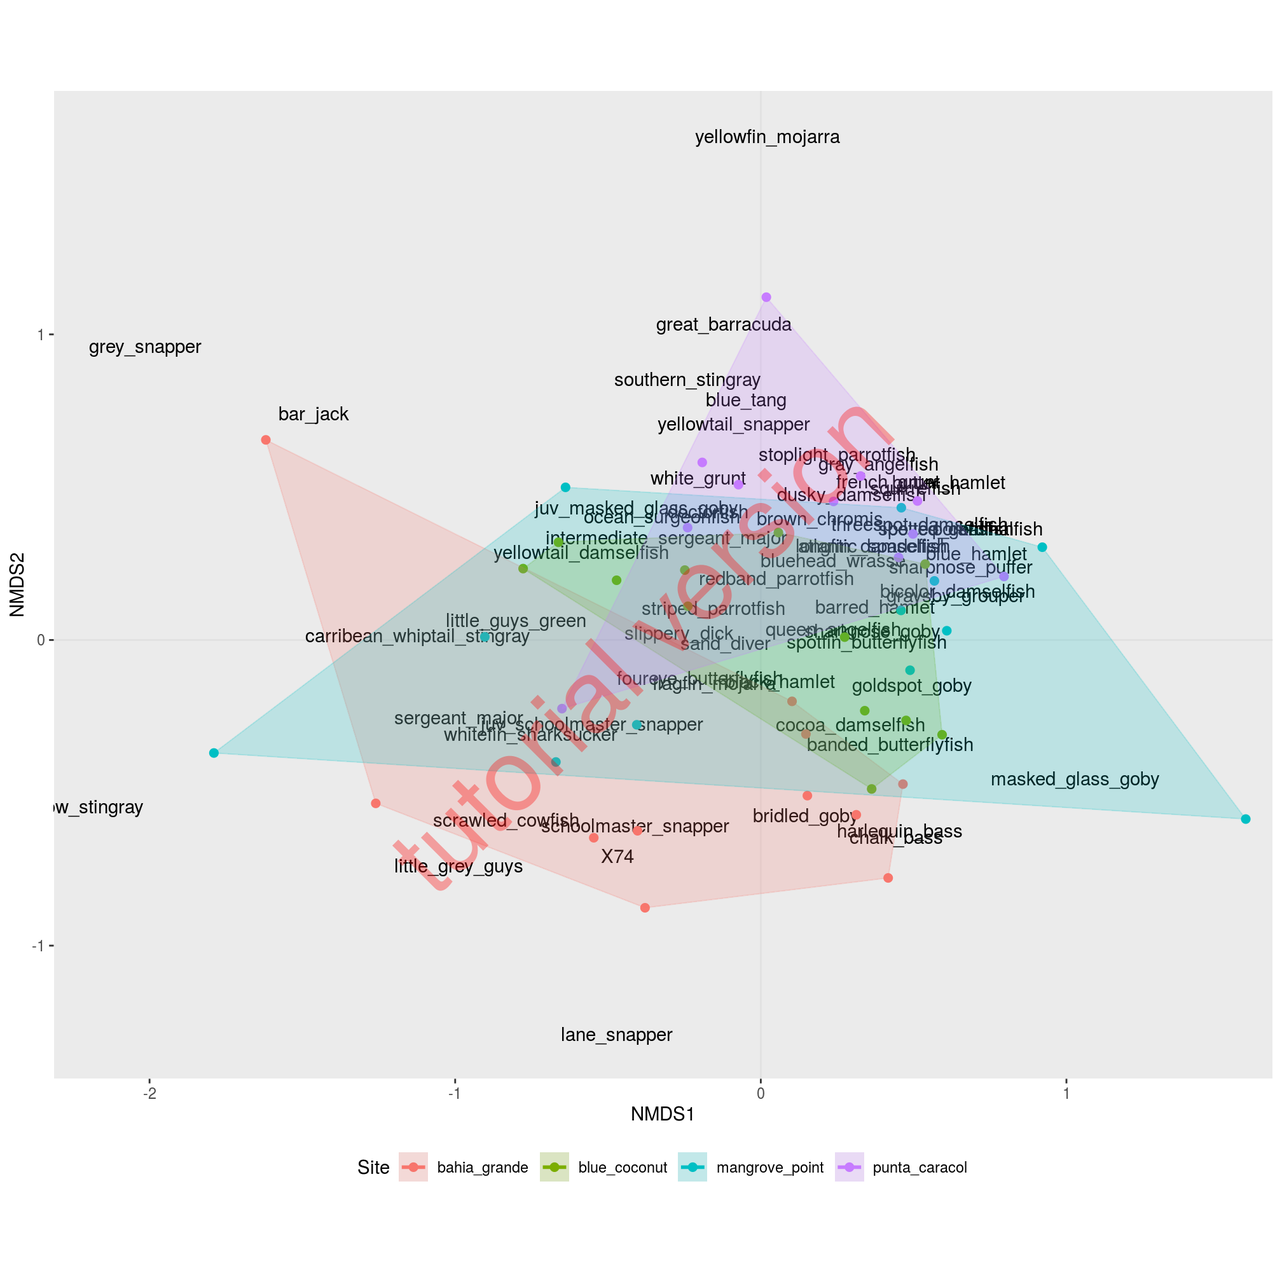
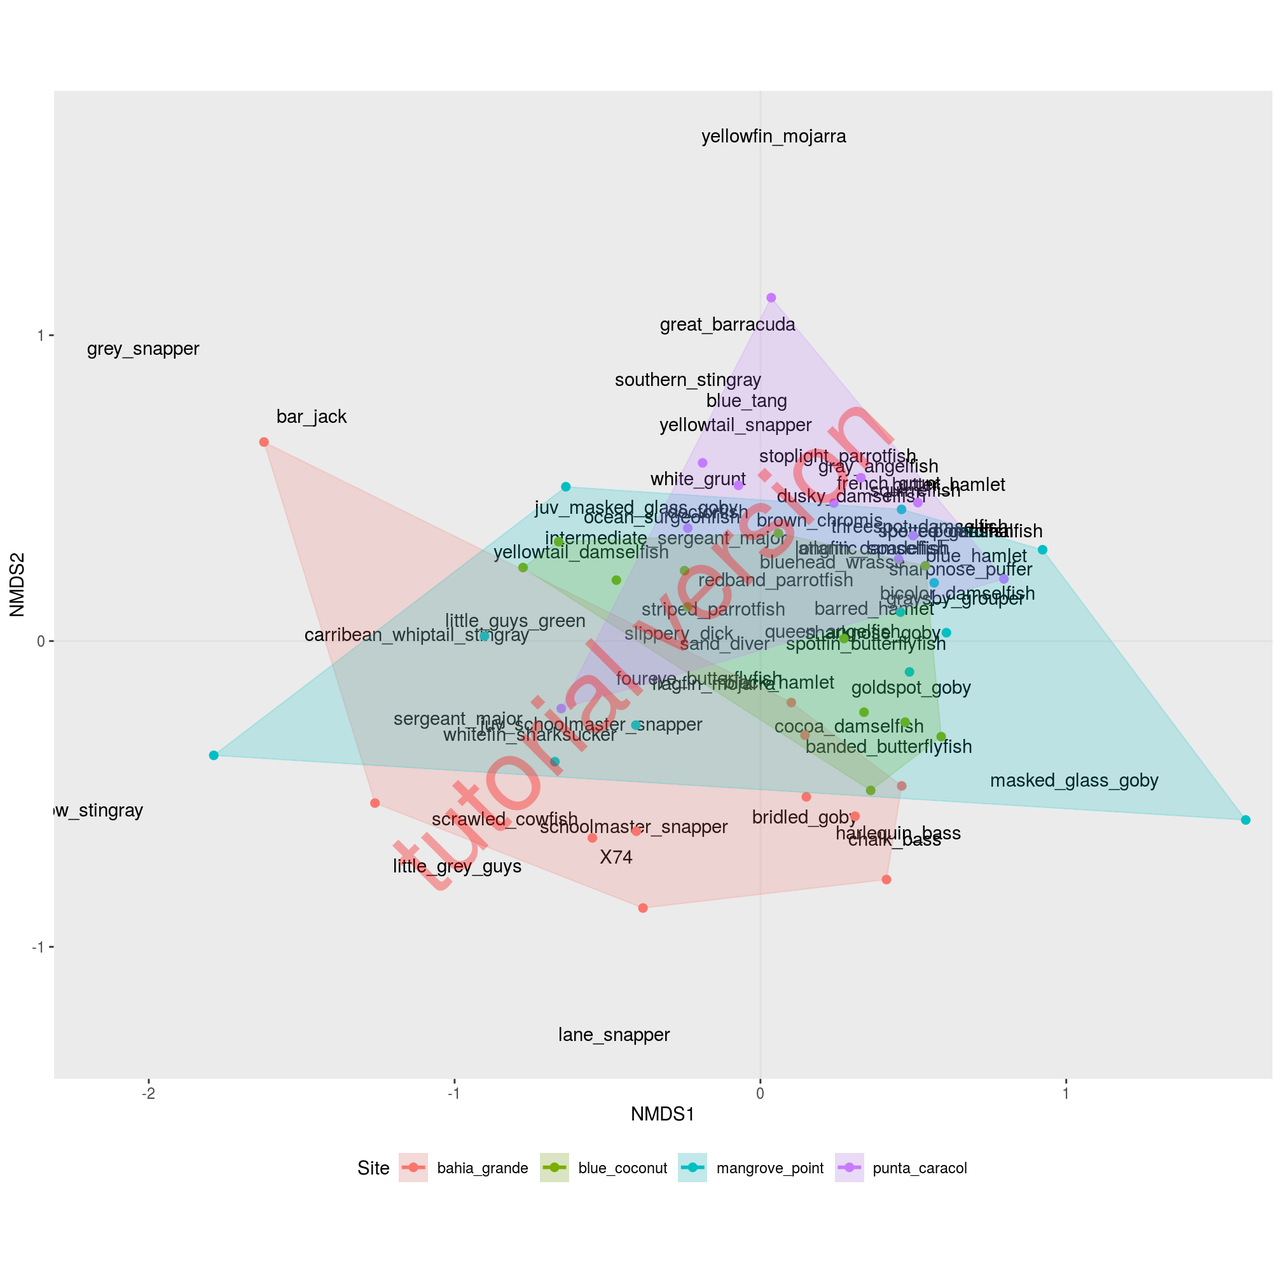
finish pie docs

diff --git a/docs/pie-charts-on-map.html b/docs/pie-charts-on-map.html
@@ -24,7 +24,7 @@
 <meta name="author" content="Kosmas Hench" />
 
 
-<meta name="date" content="2020-01-29" />
+<meta name="date" content="2020-01-30" />
 
   <meta name="viewport" content="width=device-width, initial-scale=1" />
   <meta name="apple-mobile-web-app-capable" content="yes" />
@@ -175,7 +175,7 @@ code span.wa { color: #60a0b0; font-weight: bold; font-style: italic; } /* Warni
 <h1><span class="header-section-number">3</span> pie-charts on map</h1>
 <div id="external-pacakges-1" class="section level2">
 <h2><span class="header-section-number">3.1</span> External pacakges</h2>
-<p>Note that we need to drop the following entries unless you know their family:</p>
+<p>Note that we need to drop the following entries unless you know their family (this happens automatically within this script):</p>
 <ul>
 <li>little_grey_guys</li>
 <li>little_guys_green</li>
@@ -375,12 +375,13 @@ Beware of the <code>col_types = str_c(c('ccdc',rep('d', 78)),collapse = '')</cod
 <div class="sourceCode" id="cb47"><pre class="sourceCode r"><code class="sourceCode r"><a class="sourceLine" id="cb47-1" data-line-number="1"><span class="co"># set color coding for habitat type</span></a>
 <a class="sourceLine" id="cb47-2" data-line-number="2">clr_habitat &lt;-<span class="st"> </span><span class="kw">c</span>(<span class="kw">rgb</span>(<span class="dv">0</span>,<span class="dv">0</span>,<span class="dv">0</span>), <span class="kw">rgb</span>(<span class="dv">1</span>,<span class="dv">1</span>,<span class="dv">1</span>)) <span class="op">%&gt;%</span><span class="st"> </span></a>
 <a class="sourceLine" id="cb47-3" data-line-number="3"><span class="st">  </span><span class="kw">set_names</span>(<span class="dt">nm =</span> <span class="kw">c</span>(<span class="st">&#39;Reef&#39;</span>, <span class="st">&#39;Mangrove&#39;</span>))</a></code></pre></div>
-<p>To put the compass on the map we read the svg file into R.</p>
+<p>To put the compass on the map, we read the svg file into R.</p>
 <div class="sourceCode" id="cb48"><pre class="sourceCode r"><code class="sourceCode r"><a class="sourceLine" id="cb48-1" data-line-number="1"><span class="co"># import the compass image</span></a>
 <a class="sourceLine" id="cb48-2" data-line-number="2">compass &lt;-<span class="st"> </span><span class="kw">hypo_read_svg</span>(<span class="st">&#39;north.svg&#39;</span>)</a></code></pre></div>
 </div>
 <div id="plotting" class="section level2">
 <h2><span class="header-section-number">3.5</span> Plotting</h2>
+<p>Now we have all the pieces needed to plot the pies on the bocas map.</p>
 <div class="sourceCode" id="cb49"><pre class="sourceCode r"><code class="sourceCode r"><a class="sourceLine" id="cb49-1" data-line-number="1"><span class="co"># -----------------------------------</span></a>
 <a class="sourceLine" id="cb49-2" data-line-number="2"><span class="co"># plotting the map</span></a>
 <a class="sourceLine" id="cb49-3" data-line-number="3"><span class="co"># -----------------------------------</span></a>
@@ -434,23 +435,34 @@ Beware of the <code>col_types = str_c(c('ccdc',rep('d', 78)),collapse = '')</cod
 </div>
 <div id="horizontal-bar-plots" class="section level2">
 <h2><span class="header-section-number">3.6</span> Horizontal bar plots</h2>
+<p>One downside of the pie map is that we have so many different families that it is kind of hard to tell which color represents each species exactly.</p>
+<p>Another issue is the fact that here we standardized pie sizes, so we cant tell differences in overall abundances - just in composition.</p>
+<p>So a nice complementary plot might be to summariye the family data in a bar plot.</p>
 <div class="sourceCode" id="cb50"><pre class="sourceCode r"><code class="sourceCode r"><a class="sourceLine" id="cb50-1" data-line-number="1">summary_by_family <span class="op">%&gt;%</span></a>
-<a class="sourceLine" id="cb50-2" data-line-number="2"><span class="st">  </span><span class="kw">pivot_longer</span>(<span class="dt">cols =</span> Acanthuridae<span class="op">:</span>Urotrygonidae,</a>
-<a class="sourceLine" id="cb50-3" data-line-number="3">               <span class="dt">names_to =</span> <span class="st">&#39;Family&#39;</span>, <span class="dt">values_to =</span> <span class="st">&#39;n&#39;</span>) <span class="op">%&gt;%</span></a>
-<a class="sourceLine" id="cb50-4" data-line-number="4"><span class="st">  </span><span class="kw">ggplot</span>(<span class="kw">aes</span>(<span class="dt">y =</span> <span class="kw">fct_reorder</span>(Family, n), <span class="dt">x =</span> n, <span class="dt">fill =</span> Family))<span class="op">+</span></a>
-<a class="sourceLine" id="cb50-5" data-line-number="5"><span class="st">  </span><span class="kw">geom_barh</span>(<span class="dt">stat =</span> <span class="st">&#39;identity&#39;</span>)<span class="op">+</span></a>
-<a class="sourceLine" id="cb50-6" data-line-number="6"><span class="st">  </span><span class="kw">facet_grid</span>(habitat_type <span class="op">~</span><span class="st"> </span>Site)<span class="op">+</span></a>
-<a class="sourceLine" id="cb50-7" data-line-number="7"><span class="st">  </span><span class="kw">scale_fill_manual</span>(<span class="dt">values =</span> <span class="kw">paletteer_c</span>(<span class="dt">n =</span> <span class="kw">length</span>(fish_columns),</a>
-<a class="sourceLine" id="cb50-8" data-line-number="8">                                         <span class="dt">palette =</span> <span class="st">&quot;ggthemes::Red-Green-Gold Diverging&quot;</span>))<span class="op">+</span></a>
-<a class="sourceLine" id="cb50-9" data-line-number="9"><span class="st">  </span><span class="kw">guides</span>(<span class="dt">fill =</span> <span class="kw">guide_legend</span>(<span class="dt">title =</span> <span class="st">&#39;Family&#39;</span>,</a>
-<a class="sourceLine" id="cb50-10" data-line-number="10">                             <span class="dt">title.position =</span> <span class="st">&#39;top&#39;</span>,<span class="dt">nrow =</span> <span class="dv">3</span>))<span class="op">+</span></a>
-<a class="sourceLine" id="cb50-11" data-line-number="11"><span class="st">  </span><span class="kw">theme_minimal</span>() <span class="op">+</span></a>
-<a class="sourceLine" id="cb50-12" data-line-number="12"><span class="st">  </span><span class="kw">theme</span>(<span class="dt">axis.title =</span> <span class="kw">element_blank</span>(),</a>
-<a class="sourceLine" id="cb50-13" data-line-number="13">        <span class="dt">legend.key.size =</span> <span class="kw">unit</span>(<span class="dv">14</span>,<span class="st">&#39;pt&#39;</span>),</a>
-<a class="sourceLine" id="cb50-14" data-line-number="14">        <span class="dt">legend.key.height =</span> <span class="kw">unit</span>(<span class="dv">14</span>,<span class="st">&#39;pt&#39;</span>),</a>
-<a class="sourceLine" id="cb50-15" data-line-number="15">        <span class="dt">legend.background =</span> <span class="kw">element_rect</span>(<span class="dt">fill =</span> <span class="st">&#39;lightgray&#39;</span>, </a>
-<a class="sourceLine" id="cb50-16" data-line-number="16">                                         <span class="dt">color =</span> <span class="kw">rgb</span>(<span class="dv">1</span>,<span class="dv">1</span>,<span class="dv">1</span>,<span class="dv">0</span>)),</a>
-<a class="sourceLine" id="cb50-17" data-line-number="17">        <span class="dt">legend.position =</span> <span class="st">&#39;bottom&#39;</span>)</a></code></pre></div>
+<a class="sourceLine" id="cb50-2" data-line-number="2"><span class="st">  </span><span class="co"># transform the family data into &quot;long format&quot;</span></a>
+<a class="sourceLine" id="cb50-3" data-line-number="3"><span class="st">  </span><span class="kw">pivot_longer</span>(<span class="dt">cols =</span> Acanthuridae<span class="op">:</span>Urotrygonidae,</a>
+<a class="sourceLine" id="cb50-4" data-line-number="4">               <span class="dt">names_to =</span> <span class="st">&#39;Family&#39;</span>, <span class="dt">values_to =</span> <span class="st">&#39;n&#39;</span>) <span class="op">%&gt;%</span></a>
+<a class="sourceLine" id="cb50-5" data-line-number="5"><span class="st">  </span><span class="co"># initialize ggplot</span></a>
+<a class="sourceLine" id="cb50-6" data-line-number="6"><span class="st">  </span><span class="kw">ggplot</span>(<span class="kw">aes</span>(<span class="dt">y =</span> <span class="kw">fct_reorder</span>(Family, n), <span class="dt">x =</span> n, <span class="dt">fill =</span> Family))<span class="op">+</span></a>
+<a class="sourceLine" id="cb50-7" data-line-number="7"><span class="st">  </span><span class="co"># add horizontal bars</span></a>
+<a class="sourceLine" id="cb50-8" data-line-number="8"><span class="st">  </span><span class="kw">geom_barh</span>(<span class="dt">stat =</span> <span class="st">&#39;identity&#39;</span>)<span class="op">+</span></a>
+<a class="sourceLine" id="cb50-9" data-line-number="9"><span class="st">  </span><span class="co"># facet over haitat type and site (create subplots)</span></a>
+<a class="sourceLine" id="cb50-10" data-line-number="10"><span class="st">  </span><span class="kw">facet_grid</span>(habitat_type <span class="op">~</span><span class="st"> </span>Site)<span class="op">+</span></a>
+<a class="sourceLine" id="cb50-11" data-line-number="11"><span class="st">  </span><span class="co"># use same color coding as in the pie map</span></a>
+<a class="sourceLine" id="cb50-12" data-line-number="12"><span class="st">  </span><span class="kw">scale_fill_manual</span>(<span class="dt">values =</span> <span class="kw">paletteer_c</span>(<span class="dt">n =</span> <span class="kw">length</span>(fish_columns),</a>
+<a class="sourceLine" id="cb50-13" data-line-number="13">                                         <span class="dt">palette =</span> <span class="st">&quot;ggthemes::Red-Green-Gold Diverging&quot;</span>))<span class="op">+</span></a>
+<a class="sourceLine" id="cb50-14" data-line-number="14"><span class="st">  </span><span class="co"># format the legend</span></a>
+<a class="sourceLine" id="cb50-15" data-line-number="15"><span class="st">  </span><span class="kw">guides</span>(<span class="dt">fill =</span> <span class="kw">guide_legend</span>(<span class="dt">title =</span> <span class="st">&#39;Family&#39;</span>,</a>
+<a class="sourceLine" id="cb50-16" data-line-number="16">                             <span class="dt">title.position =</span> <span class="st">&#39;top&#39;</span>,</a>
+<a class="sourceLine" id="cb50-17" data-line-number="17">                             <span class="dt">nrow =</span> <span class="dv">3</span>))<span class="op">+</span></a>
+<a class="sourceLine" id="cb50-18" data-line-number="18"><span class="st">  </span><span class="co"># twaek the plot appearance</span></a>
+<a class="sourceLine" id="cb50-19" data-line-number="19"><span class="st">  </span><span class="kw">theme_minimal</span>() <span class="op">+</span></a>
+<a class="sourceLine" id="cb50-20" data-line-number="20"><span class="st">  </span><span class="kw">theme</span>(<span class="dt">axis.title =</span> <span class="kw">element_blank</span>(),</a>
+<a class="sourceLine" id="cb50-21" data-line-number="21">        <span class="dt">legend.key.size =</span> <span class="kw">unit</span>(<span class="dv">14</span>,<span class="st">&#39;pt&#39;</span>),</a>
+<a class="sourceLine" id="cb50-22" data-line-number="22">        <span class="dt">legend.key.height =</span> <span class="kw">unit</span>(<span class="dv">14</span>,<span class="st">&#39;pt&#39;</span>),</a>
+<a class="sourceLine" id="cb50-23" data-line-number="23">        <span class="dt">legend.background =</span> <span class="kw">element_rect</span>(<span class="dt">fill =</span> <span class="st">&#39;lightgray&#39;</span>, </a>
+<a class="sourceLine" id="cb50-24" data-line-number="24">                                         <span class="dt">color =</span> <span class="kw">rgb</span>(<span class="dv">1</span>,<span class="dv">1</span>,<span class="dv">1</span>,<span class="dv">0</span>)),</a>
+<a class="sourceLine" id="cb50-25" data-line-number="25">        <span class="dt">legend.position =</span> <span class="st">&#39;bottom&#39;</span>)</a></code></pre></div>
 <p><img src="piemap_files/figure-html/unnamed-chunk-20-1.png" width="1008" /></p>
 
 <div id="refs" class="references">

diff --git a/docs/nmds-and-permanova.html b/docs/nmds-and-permanova.html
@@ -24,7 +24,7 @@
 <meta name="author" content="Kosmas Hench" />
 
 
-<meta name="date" content="2020-01-29" />
+<meta name="date" content="2020-01-30" />
 
   <meta name="viewport" content="width=device-width, initial-scale=1" />
   <meta name="apple-mobile-web-app-capable" content="yes" />
@@ -326,29 +326,53 @@ To check for this, we create a new column with the sum of all fish for each tran
 <pre><code>## Square root transformation
 ## Wisconsin double standardization
 ## Run 0 stress 0.2054951 
-## Run 1 stress 0.2253043 
-## Run 2 stress 0.2089338 
-## Run 3 stress 0.2089028 
-## Run 4 stress 0.2089353 
-## Run 5 stress 0.2089027 
-## Run 6 stress 0.2076919 
-## Run 7 stress 0.2089347 
-## Run 8 stress 0.2125663 
-## Run 9 stress 0.2159829 
-## Run 10 stress 0.2108573 
-## Run 11 stress 0.2061956 
-## Run 12 stress 0.211021 
-## Run 13 stress 0.2269092 
-## Run 14 stress 0.2061966 
-## Run 15 stress 0.2110134 
-## Run 16 stress 0.2061956 
-## Run 17 stress 0.2072502 
-## Run 18 stress 0.2054957 
-## ... Procrustes: rmse 0.0005305925  max resid 0.002908024 
+## Run 1 stress 0.2155049 
+## Run 2 stress 0.2243279 
+## Run 3 stress 0.2061959 
+## Run 4 stress 0.2123936 
+## Run 5 stress 0.215853 
+## Run 6 stress 0.2109351 
+## Run 7 stress 0.2115176 
+## Run 8 stress 0.2076394 
+## Run 9 stress 0.2147939 
+## Run 10 stress 0.2111052 
+## Run 11 stress 0.2061959 
+## Run 12 stress 0.2110076 
+## Run 13 stress 0.2089346 
+## Run 14 stress 0.2084406 
+## Run 15 stress 0.222982 
+## Run 16 stress 0.2056551 
+## ... Procrustes: rmse 0.01077497  max resid 0.06109353 
+## Run 17 stress 0.2133642 
+## Run 18 stress 0.2163068 
+## Run 19 stress 0.2084525 
+## Run 20 stress 0.2233784 
+## Run 21 stress 0.2133876 
+## Run 22 stress 0.2069564 
+## Run 23 stress 0.222829 
+## Run 24 stress 0.206198 
+## Run 25 stress 0.2126525 
+## Run 26 stress 0.2084396 
+## Run 27 stress 0.2124173 
+## Run 28 stress 0.2101243 
+## Run 29 stress 0.2089353 
+## Run 30 stress 0.2177627 
+## Run 31 stress 0.2250296 
+## Run 32 stress 0.2089348 
+## Run 33 stress 0.2069518 
+## Run 34 stress 0.2084399 
+## Run 35 stress 0.2160437 
+## Run 36 stress 0.2084416 
+## Run 37 stress 0.2167596 
+## Run 38 stress 0.2062131 
+## Run 39 stress 0.2061955 
+## Run 40 stress 0.226113 
+## Run 41 stress 0.2056604 
+## ... Procrustes: rmse 0.005968858  max resid 0.02945232 
+## Run 42 stress 0.205493 
+## ... New best solution
+## ... Procrustes: rmse 0.0006579128  max resid 0.002510731 
 ## ... Similar to previous best
-## Run 19 stress 0.2056555 
-## ... Procrustes: rmse 0.01062894  max resid 0.05814338 
-## Run 20 stress 0.2105413 
 ## *** Solution reached</code></pre>
 <div class="sourceCode" id="cb15"><pre class="sourceCode r"><code class="sourceCode r"><a class="sourceLine" id="cb15-1" data-line-number="1"><span class="co"># you can also try plot(data_nmds) at this point</span></a>
 <a class="sourceLine" id="cb15-2" data-line-number="2">data_nmds_results &lt;-<span class="st"> </span><span class="kw">export_nmds</span>(transects, data_nmds, <span class="dt">score_name =</span> <span class="st">&#39;Transect_id&#39;</span>)</a></code></pre></div>
@@ -426,7 +450,7 @@ To check for this, we create a new column with the sum of all fish for each tran
 <a class="sourceLine" id="cb22-6" data-line-number="6"><span class="co"># export the hapitat types according to order of the distance matrix</span></a>
 <a class="sourceLine" id="cb22-7" data-line-number="7">distances_groups &lt;-<span class="st"> </span>transects[<span class="kw">match</span>(<span class="kw">labels</span>(distances),</a>
 <a class="sourceLine" id="cb22-8" data-line-number="8">                                       transects<span class="op">$</span>Transect_id),]<span class="op">$</span>habitat_type</a></code></pre></div>
-<p>One point we unfortunately could not discuss in class (because of time 😞), is the fact that like many other statistical tests, Permanova also has some assumptions about our data.</p>
+<p>One point we unfortunately could not discuss in class (because of time 😢), is the fact that like many other statistical tests, Permanova also has some assumptions about our data.</p>
 <p>So, before we start, we need to check if the assumptions for permanova are met by our data <span class="citation">(Anderson <a href="#ref-Anderson01">2001</a>)</span>:</p>
 <center>
 <em>“The only assumption of the test is that […] the observations are independent and that they have similar distributions”</em>
@@ -449,7 +473,7 @@ The idea here is that if the clusters are of differnt sizes, the permanova might
 ## 
 ## Response: Distances
 ##           Df Sum Sq  Mean Sq      F N.Perm Pr(&gt;F)  
-## Groups     1 0.1401 0.140096 4.0667    999  0.043 *
+## Groups     1 0.1401 0.140096 4.0667    999   0.06 .
 ## Residuals 44 1.5158 0.034449                       
 ## ---
 ## Signif. codes:  0 &#39;***&#39; 0.001 &#39;**&#39; 0.01 &#39;*&#39; 0.05 &#39;.&#39; 0.1 &#39; &#39; 1</code></pre>

diff --git a/docs/index.html b/docs/index.html
@@ -24,7 +24,7 @@
 <meta name="author" content="Kosmas Hench" />
 
 
-<meta name="date" content="2020-01-29" />
+<meta name="date" content="2020-01-30" />
 
   <meta name="viewport" content="width=device-width, initial-scale=1" />
   <meta name="apple-mobile-web-app-capable" content="yes" />
@@ -174,7 +174,7 @@ code span.wa { color: #60a0b0; font-weight: bold; font-style: italic; } /* Warni
 <div id="header">
 <h1 class="title">Three Seas 39 data analysis</h1>
 <p class="author"><em>Kosmas Hench</em></p>
-<p class="date"><em>2020-01-29</em></p>
+<p class="date"><em>2020-01-30</em></p>
 </div>
 <div id="intro" class="section level1">
 <h1><span class="header-section-number">1</span> Intro</h1>

diff --git a/docs/nmds.md b/docs/nmds.md
@@ -216,29 +216,53 @@ data_nmds <- metaMDS(data_matrix, k = 2, trymax = 999, distance='bray')
 ## Square root transformation
 ## Wisconsin double standardization
 ## Run 0 stress 0.2054951 
-## Run 1 stress 0.2253043 
-## Run 2 stress 0.2089338 
-## Run 3 stress 0.2089028 
-## Run 4 stress 0.2089353 
-## Run 5 stress 0.2089027 
-## Run 6 stress 0.2076919 
-## Run 7 stress 0.2089347 
-## Run 8 stress 0.2125663 
-## Run 9 stress 0.2159829 
-## Run 10 stress 0.2108573 
-## Run 11 stress 0.2061956 
-## Run 12 stress 0.211021 
-## Run 13 stress 0.2269092 
-## Run 14 stress 0.2061966 
-## Run 15 stress 0.2110134 
-## Run 16 stress 0.2061956 
-## Run 17 stress 0.2072502 
-## Run 18 stress 0.2054957 
-## ... Procrustes: rmse 0.0005305925  max resid 0.002908024 
+## Run 1 stress 0.2155049 
+## Run 2 stress 0.2243279 
+## Run 3 stress 0.2061959 
+## Run 4 stress 0.2123936 
+## Run 5 stress 0.215853 
+## Run 6 stress 0.2109351 
+## Run 7 stress 0.2115176 
+## Run 8 stress 0.2076394 
+## Run 9 stress 0.2147939 
+## Run 10 stress 0.2111052 
+## Run 11 stress 0.2061959 
+## Run 12 stress 0.2110076 
+## Run 13 stress 0.2089346 
+## Run 14 stress 0.2084406 
+## Run 15 stress 0.222982 
+## Run 16 stress 0.2056551 
+## ... Procrustes: rmse 0.01077497  max resid 0.06109353 
+## Run 17 stress 0.2133642 
+## Run 18 stress 0.2163068 
+## Run 19 stress 0.2084525 
+## Run 20 stress 0.2233784 
+## Run 21 stress 0.2133876 
+## Run 22 stress 0.2069564 
+## Run 23 stress 0.222829 
+## Run 24 stress 0.206198 
+## Run 25 stress 0.2126525 
+## Run 26 stress 0.2084396 
+## Run 27 stress 0.2124173 
+## Run 28 stress 0.2101243 
+## Run 29 stress 0.2089353 
+## Run 30 stress 0.2177627 
+## Run 31 stress 0.2250296 
+## Run 32 stress 0.2089348 
+## Run 33 stress 0.2069518 
+## Run 34 stress 0.2084399 
+## Run 35 stress 0.2160437 
+## Run 36 stress 0.2084416 
+## Run 37 stress 0.2167596 
+## Run 38 stress 0.2062131 
+## Run 39 stress 0.2061955 
+## Run 40 stress 0.226113 
+## Run 41 stress 0.2056604 
+## ... Procrustes: rmse 0.005968858  max resid 0.02945232 
+## Run 42 stress 0.205493 
+## ... New best solution
+## ... Procrustes: rmse 0.0006579128  max resid 0.002510731 
 ## ... Similar to previous best
-## Run 19 stress 0.2056555 
-## ... Procrustes: rmse 0.01062894  max resid 0.05814338 
-## Run 20 stress 0.2105413 
 ## *** Solution reached
 ```
 
@@ -355,7 +379,7 @@ distances_groups <- transects[match(labels(distances),
                                        transects$Transect_id),]$habitat_type
 ```
 
-One point we unfortunately could not discuss in class (because of time 😞), is the fact that like many other statistical tests, Permanova also has some assumptions about our data.
+One point we unfortunately could not discuss in class (because of time 😢), is the fact that like many other statistical tests, Permanova also has some assumptions about our data.
 
 So, before we start, we need to check if the assumptions for permanova are met by our data [@Anderson01]:
 
@@ -386,7 +410,7 @@ permutest(distances_betadispersion)
 ## 
 ## Response: Distances
 ##           Df Sum Sq  Mean Sq      F N.Perm Pr(>F)  
-## Groups     1 0.1401 0.140096 4.0667    999  0.043 *
+## Groups     1 0.1401 0.140096 4.0667    999   0.06 .
 ## Residuals 44 1.5158 0.034449                       
 ## ---
 ## Signif. codes:  0 '***' 0.001 '**' 0.01 '*' 0.05 '.' 0.1 ' ' 1

diff --git a/docs/piemap.md b/docs/piemap.md
@@ -10,7 +10,7 @@ editor_options:
 
 ## External pacakges
 
-Note that we need to drop the following entries unless you know their family:
+Note that we need to drop the following entries unless you know their family (this happens automatically within this script):
 
 - little_grey_guys
 - little_guys_green
@@ -293,7 +293,7 @@ clr_habitat <- c(rgb(0,0,0), rgb(1,1,1)) %>%
   set_names(nm = c('Reef', 'Mangrove'))
 ```
 
-To put the compass on the map we read the svg file into R.
+To put the compass on the map, we read the svg file into R.
 
 
 ```r
@@ -303,6 +303,7 @@ compass <- hypo_read_svg('north.svg')
 
 ## Plotting
 
+Now we have all the pieces needed to plot the pies on the bocas map.
 
 
 ```r
@@ -361,18 +362,33 @@ ggplot()+
 
 ## Horizontal bar plots
 
+One downside of the pie map is that we have so many different families that it is kind of hard to tell which color represents each species exactly.
+
+Another issue is the fact that here we standardized pie sizes, so we cant tell differences in overall abundances - just in composition.
+
+So a nice complementary plot might be to summariye the family data in a bar plot.
+
+
 
 ```r
 summary_by_family %>%
+  # transform the family data into "long format"
   pivot_longer(cols = Acanthuridae:Urotrygonidae,
                names_to = 'Family', values_to = 'n') %>%
+  # initialize ggplot
   ggplot(aes(y = fct_reorder(Family, n), x = n, fill = Family))+
+  # add horizontal bars
   geom_barh(stat = 'identity')+
+  # facet over haitat type and site (create subplots)
   facet_grid(habitat_type ~ Site)+
+  # use same color coding as in the pie map
   scale_fill_manual(values = paletteer_c(n = length(fish_columns),
                                          palette = "ggthemes::Red-Green-Gold Diverging"))+
+  # format the legend
   guides(fill = guide_legend(title = 'Family',
-                             title.position = 'top',nrow = 3))+
+                             title.position = 'top',
+                             nrow = 3))+
+  # twaek the plot appearance
   theme_minimal() +
   theme(axis.title = element_blank(),
         legend.key.size = unit(14,'pt'),

diff --git a/docs/index.md b/docs/index.md
@@ -2,7 +2,7 @@
 title: "Three Seas 39 data analysis"
 subtitle: ""
 author: "Kosmas Hench"
-date: "2020-01-29"
+date: "2020-01-30"
 documentclass: book
 bibliography: [book.bib]
 biblio-style: apalike
